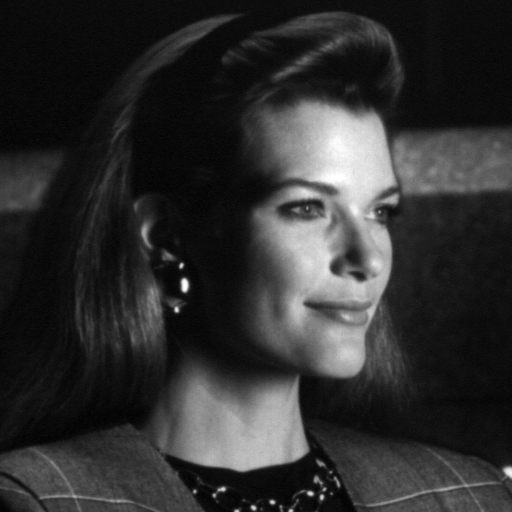
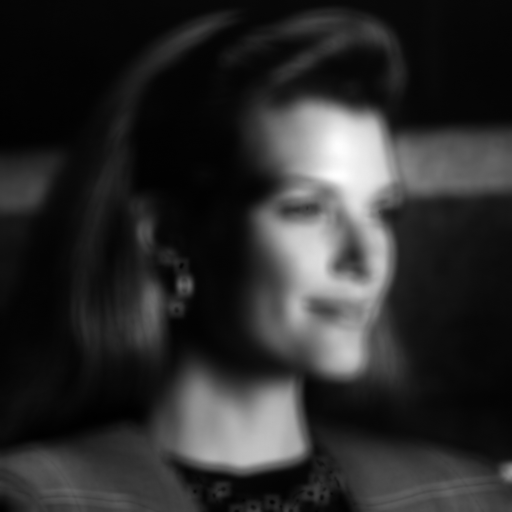
15x15

diff --git a/lesson7/lesson7.3.py b/lesson7/lesson7.3.py
@@ -34,21 +34,21 @@ grad = signal.convolve2d(image_array,filtr_5x5, mode='same', boundary='symm')
 misc.imsave("filtered_lady_5x5.png",np.absolute(grad))
 
 filtr_15x15 = np.array([
-[0,0,0,0,0,0,0,0,0,0,0,0,0,0,0],
-[0,0,0,0,0,0,0,0,0,0,0,0,0,0,0],
-[0,0,0,0,0,0,0,0,0,0,0,0,0,0,0],
-[0,0,0,0,0,0,0,0,0,0,0,0,0,0,0],
-[0,0,0,0,0,0,0,0,0,0,0,0,0,0,0],
-[0,0,0,0,0,0,0,0,0,0,0,0,0,0,0],
-[0,0,0,0,0,0,0,0,0,0,0,0,0,0,0],
-[0,0,0,0,0,0,0,1,0,0,0,0,0,0,0],
-[0,0,0,0,0,0,0,0,0,0,0,0,0,0,0],
-[0,0,0,0,0,0,0,0,0,0,0,0,0,0,0],
-[0,0,0,0,0,0,0,0,0,0,0,0,0,0,0],
-[0,0,0,0,0,0,0,0,0,0,0,0,0,0,0],
-[0,0,0,0,0,0,0,0,0,0,0,0,0,0,0],
-[0,0,0,0,0,0,0,0,0,0,0,0,0,0,0],
-[0,0,0,0,0,0,0,0,0,0,0,0,0,0,0]])
+[-1,-1,-1,-1,-1,-1,-1,-1,-1,-1,-1,-1,-1,-1,-1],
+[-1,-1,-1,-1,-1,-1,-1,-1,-1,-1,-1,-1,-1,-1,-1],
+[-1,-1,-1,-1,-1,-1,-1,-1,-1,-1,-1,-1,-1,-1,-1],
+[-1,-1,-1,-1,-1,-1,-1,-1,-1,-1,-1,-1,-1,-1,-1],
+[-1,-1,-1,-1,-1,-1,-1,-1,-1,-1,-1,-1,-1,-1,-1],
+[-1,-1,-1,-1,-1,-1,-1,-1,-1,-1,-1,-1,-1,-1,-1],
+[-1,-1,-1,-1,-1,-1,-1,-1,-1,-1,-1,-1,-1,-1,-1],
+[-1,-1,-1,-1,-1,-1,-1,24,-1,-1,-1,-1,-1,-1,-1],
+[-1,-1,-1,-1,-1,-1,-1,-1,-1,-1,-1,-1,-1,-1,-1],
+[-1,-1,-1,-1,-1,-1,-1,-1,-1,-1,-1,-1,-1,-1,-1],
+[-1,-1,-1,-1,-1,-1,-1,-1,-1,-1,-1,-1,-1,-1,-1],
+[-1,-1,-1,-1,-1,-1,-1,-1,-1,-1,-1,-1,-1,-1,-1],
+[-1,-1,-1,-1,-1,-1,-1,-1,-1,-1,-1,-1,-1,-1,-1],
+[-1,-1,-1,-1,-1,-1,-1,-1,-1,-1,-1,-1,-1,-1,-1],
+[-1,-1,-1,-1,-1,-1,-1,-1,-1,-1,-1,-1,-1,-1,-1]])
 
 grad = signal.convolve2d(image_array,filtr_15x15, mode='same', boundary='symm')
 misc.imsave("filtered_lady_15x15.png",np.absolute(grad))
